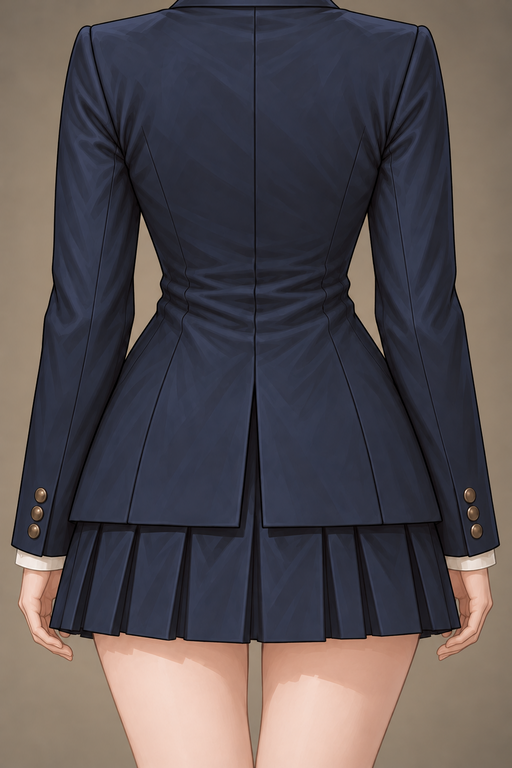
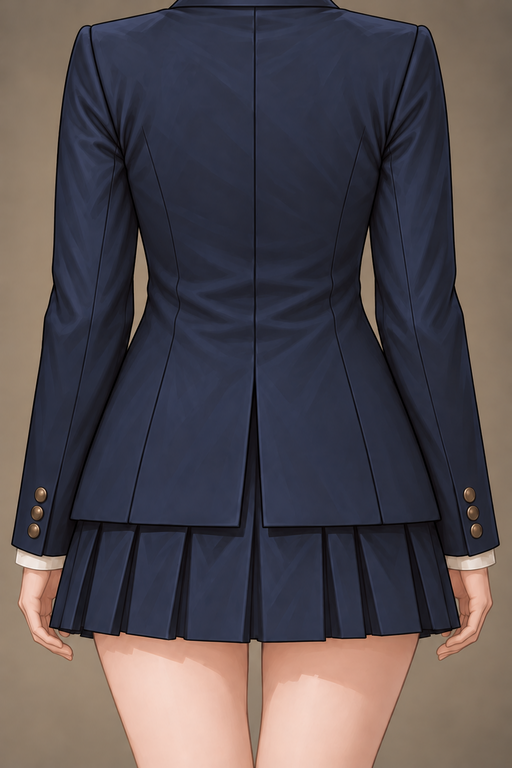
调整背面西装腰部版型：放松腰部侧缝与勒褶，匹配正面的适度收腰和自然女性形体

diff --git a/wardrobe-samples-illustrated/方向锚点/README.md b/wardrobe-samples-illustrated/方向锚点/README.md
@@ -7,6 +7,6 @@
 | 类别 | 规格 | 方向 | 状态 |
 | --- | --- | --- | --- |
 | 上装·通用版 | 胸围标准 | [纯正面](上装/通用版/胸围标准/正面.png) | 已调整：适度收腰，保留自然胸腰胯过渡与完整双手；512×768 |
-| 上装·通用版 | 胸围标准 | [纯背面](上装/通用版/胸围标准/背面.png) | 已重做：正后方、后中缝居中、完整双手、同套衣服与统一构图，512×768 |
+| 上装·通用版 | 胸围标准 | [纯背面](上装/通用版/胸围标准/背面.png) | 已调整：放松腰部侧缝与勒褶，匹配正面的适度收腰和自然女性形体；512×768 |
 
 其他区域及发型／胸围规格的方向参考尚未生成。原先背侧视图仅供画风参考，不作为正背面方向锚点。
